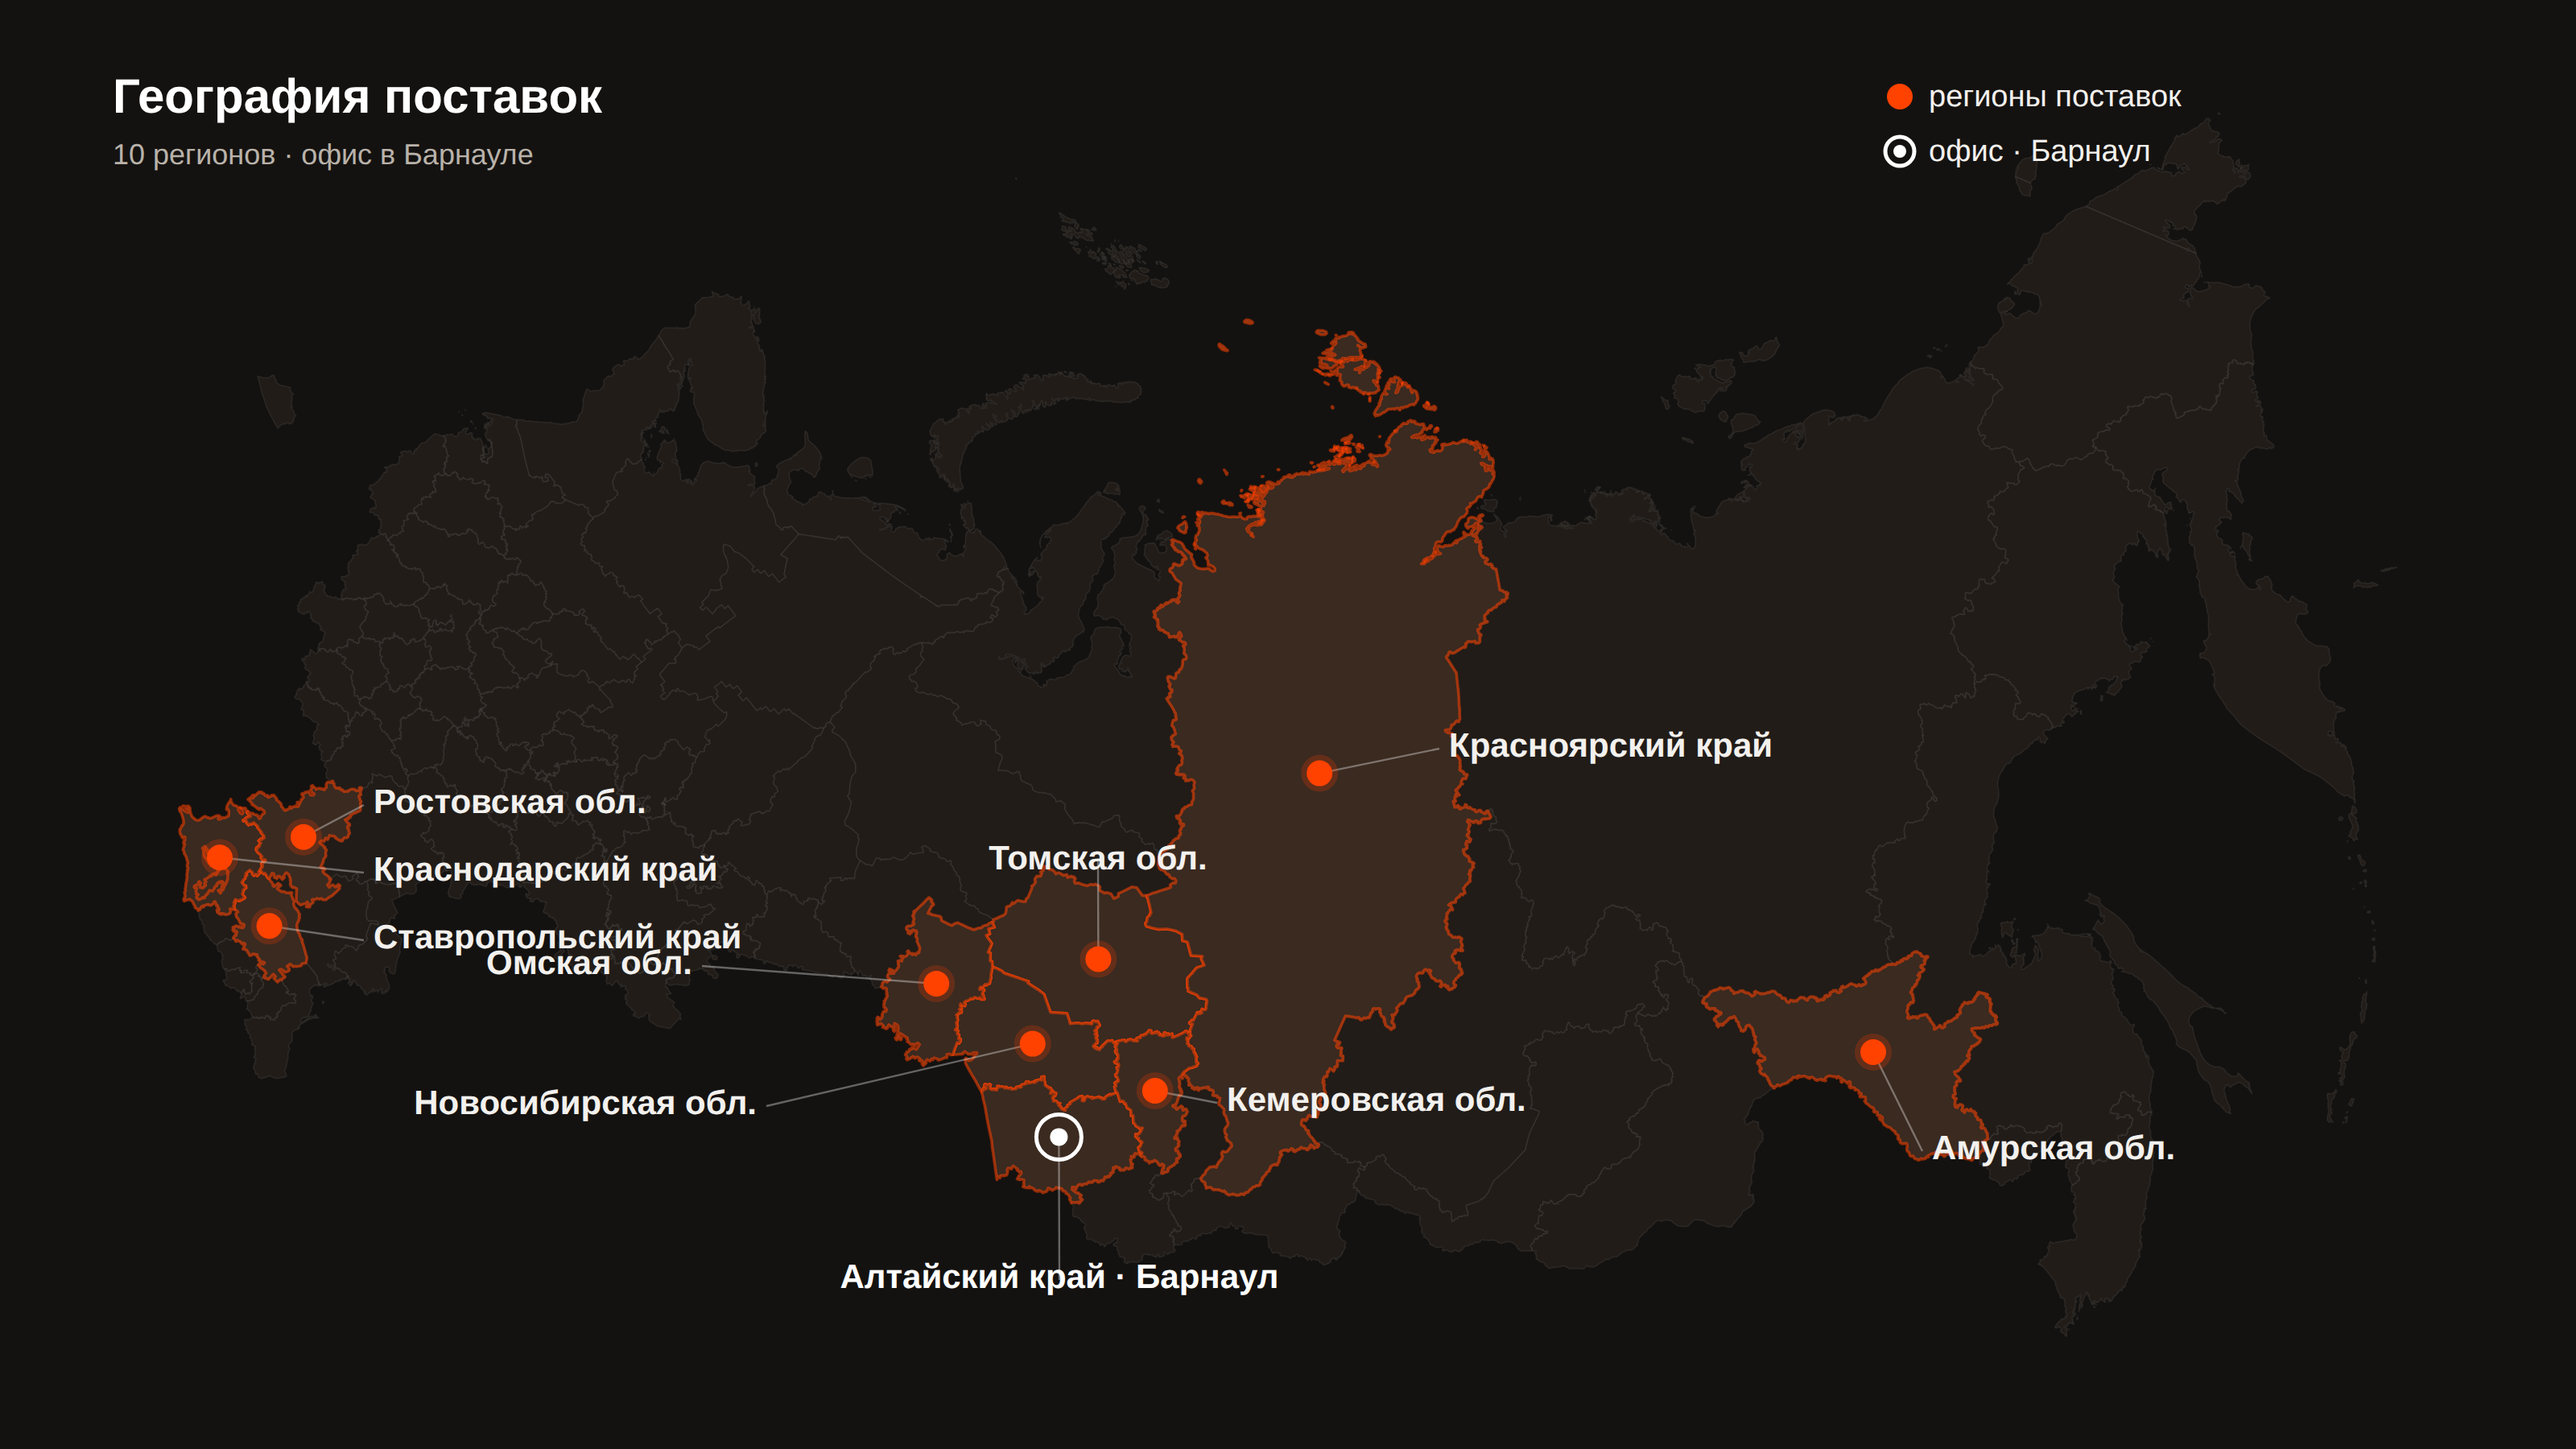
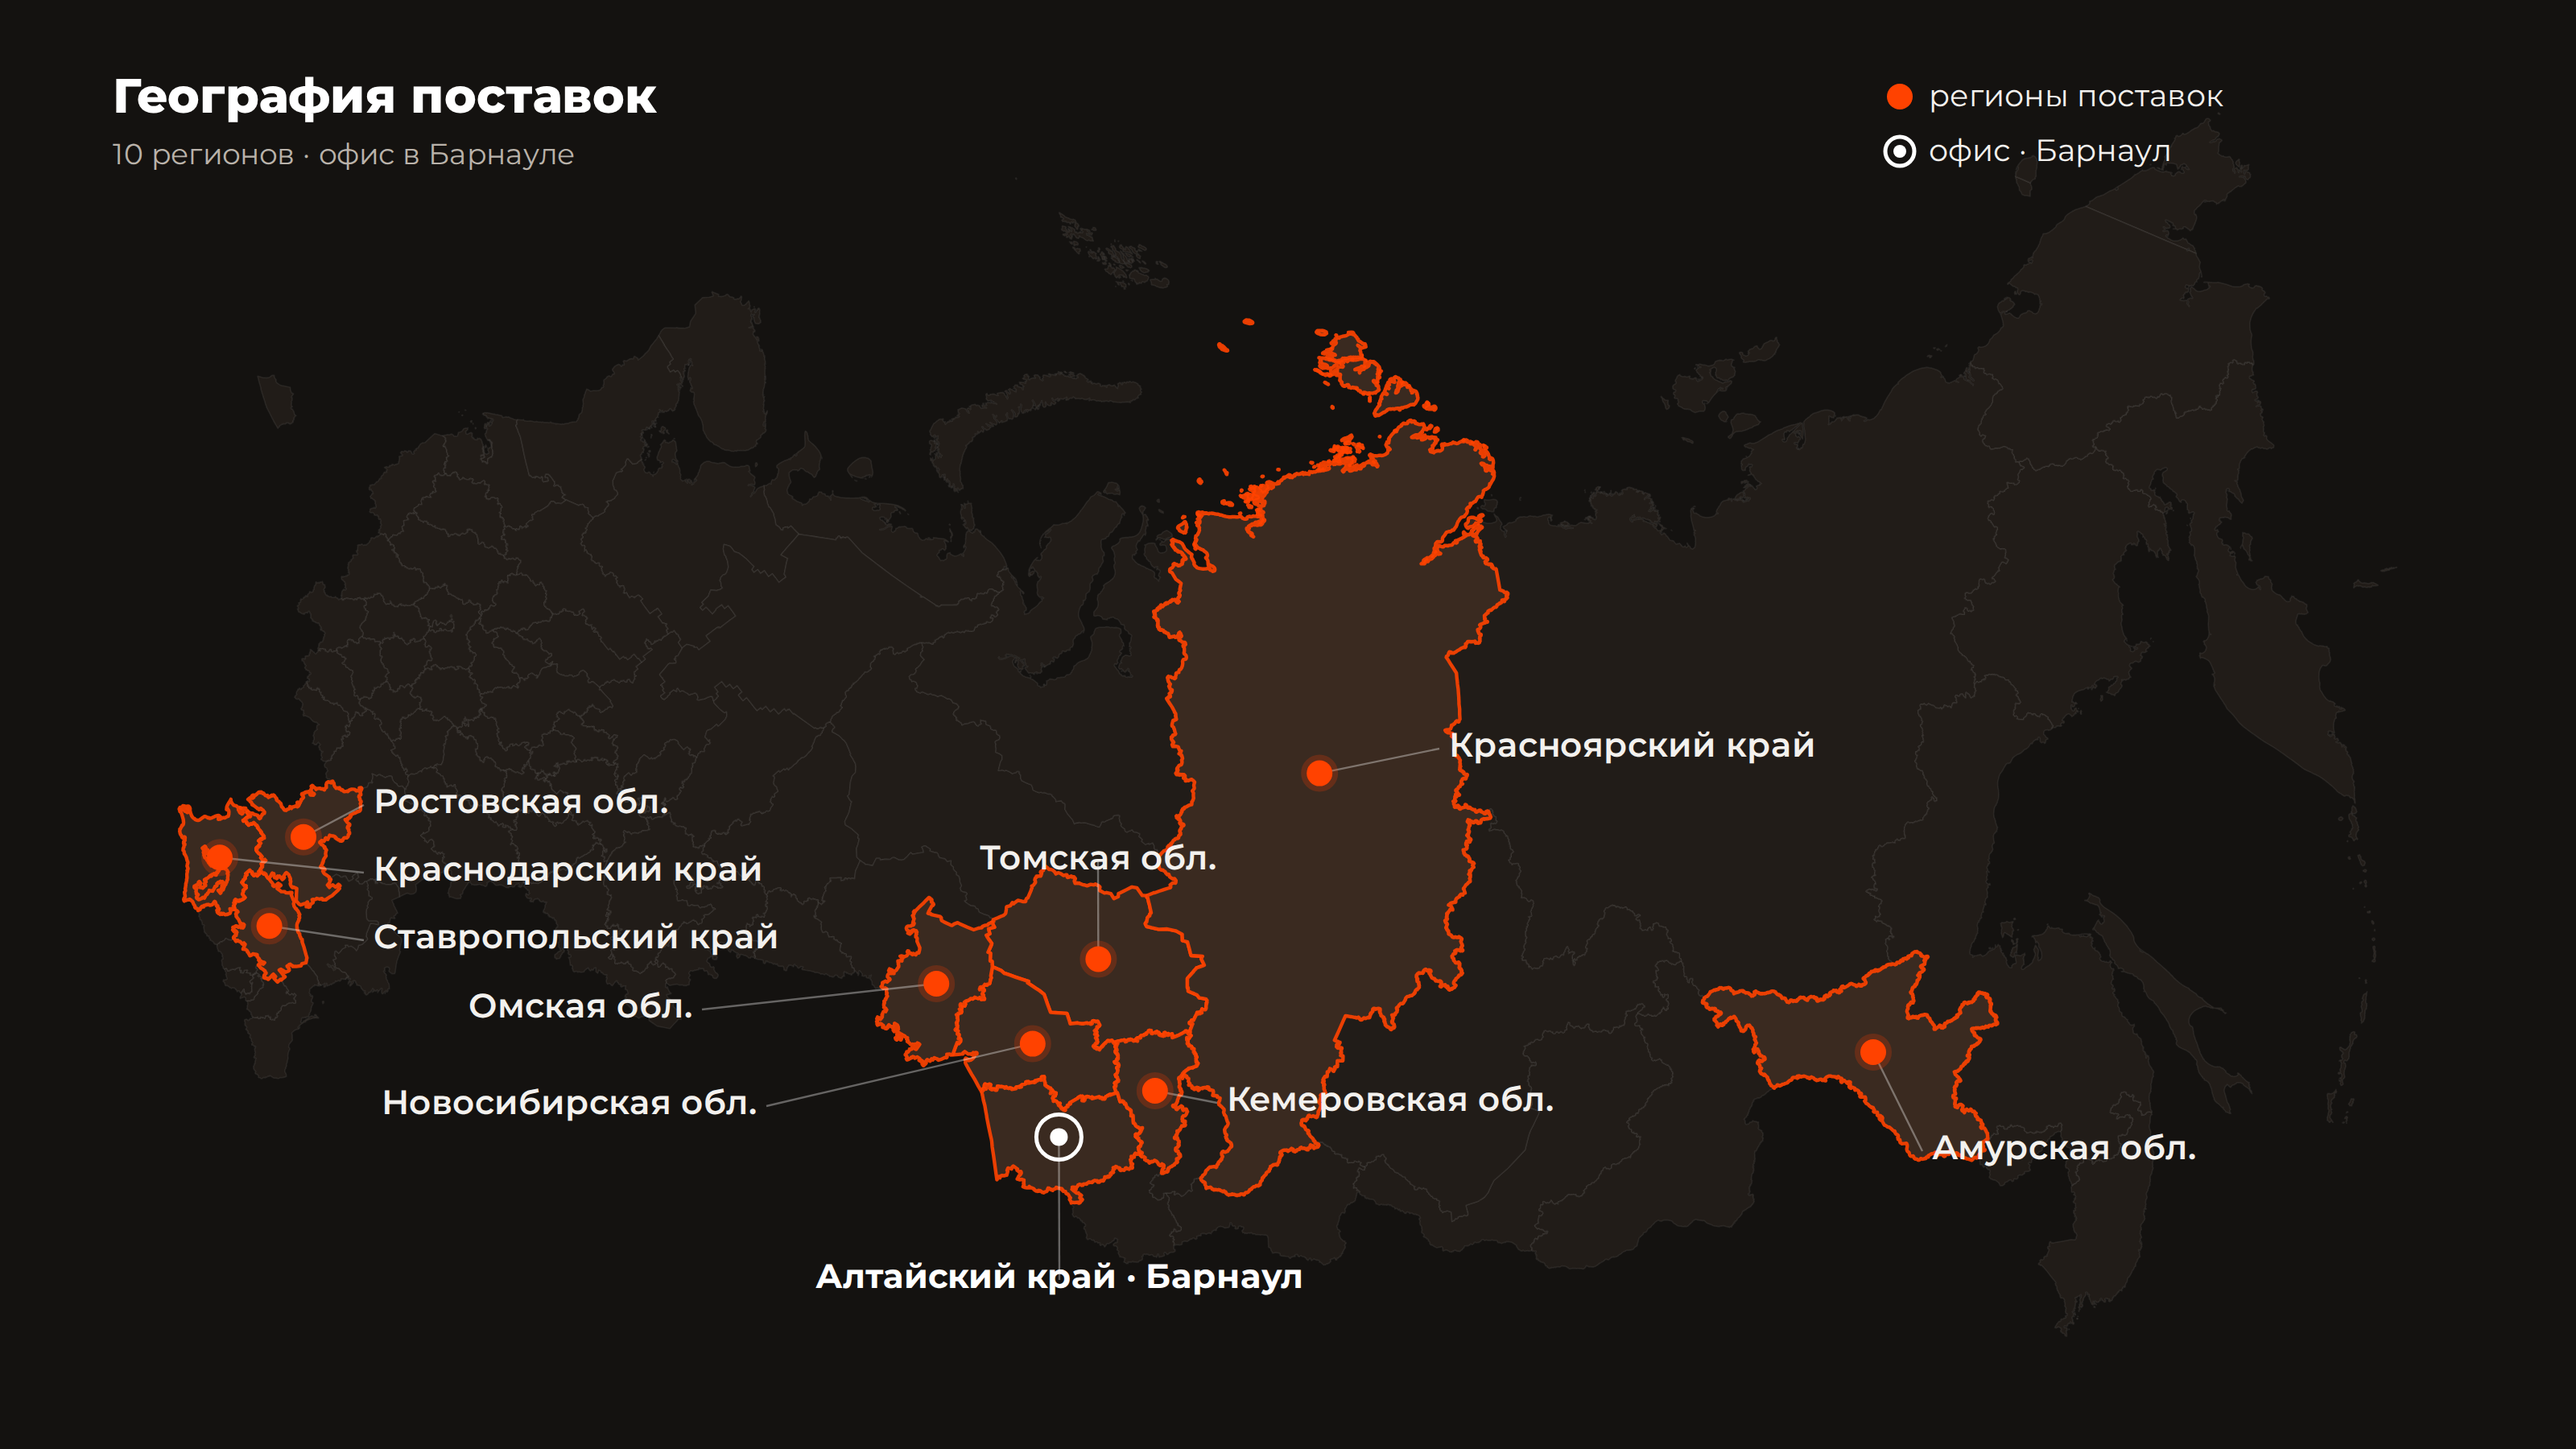
geo-map: подписи регионов — Montserrat вместо Arial, версия карты для сайта
Chromium при рендере молча подставлял Arial: подписи на карте выпадали из
шрифта сайта. render_map.cjs теперь встраивает Montserrat и падает, если
он не загрузился. Montserrat шире — «Омская обл.» опущена, чтобы не
наезжать на «Ставропольский край». Контуры регионов ярче, как в макете.

saturn-map-site.png — без заголовка и легенды, на замену geo-map-10-outline.

Claude-Session: https://claude.ai/code/session_017Yu2wUyZks2ZT3AxJsvZAM

diff --git a/design/geo-map/build_map.py b/design/geo-map/build_map.py
@@ -68,7 +68,7 @@ LAB={
  "Ростовская область":   (232,505,"start"),
  "Краснодарский край":   (232,547,"start"),
  "Ставропольский край":  (232,589,"start"),
- "Омская область":       (430,605,"end"),      # влево
+ "Омская область":       (430,632,"end"),      # влево; ниже Ставрополья — Montserrat шире Arial
  "Томская область":      (682,540,"middle"),   # вверх
  "Новосибирская область":(470,692,"end"),      # влево-вниз
  "Кемеровская область":  (762,690,"start"),    # вправо
@@ -78,7 +78,7 @@ LAB={
 }
 
 BG="#141210"; LAND="#211C18"; LANDS="rgba(255,255,255,.07)"
-HIL="#3A2A20"; HILS="rgba(255,66,0,.55)"; ORANGE="#FF4200"; TXT="#F3F1EE"; LEAD="rgba(255,255,255,.35)"
+HIL="#3A2A20"; HILS="rgba(255,66,0,.9)"; ORANGE="#FF4200"; TXT="#F3F1EE"; LEAD="rgba(255,255,255,.35)"
 svg=[f'<svg xmlns="http://www.w3.org/2000/svg" width="{W}" height="{H}" viewBox="0 0 {W} {H}" font-family="Montserrat,Arial,sans-serif">']
 svg.append(f'<rect width="{W}" height="{H}" fill="{BG}"/>')
 # base regions
@@ -88,7 +88,7 @@ for nm,rr,is_t in all_regions:
 # highlighted target regions (contour)
 for nm,rr,is_t in all_regions:
     if not is_t: continue
-    for ring in rr: svg.append(f'<path d="{path(ring)}" fill="{HIL}" stroke="{HILS}" stroke-width="1.8" stroke-linejoin="round"/>')
+    for ring in rr: svg.append(f'<path d="{path(ring)}" fill="{HIL}" stroke="{HILS}" stroke-width="2.2" stroke-linejoin="round"/>')
 # leaders
 for nm in TARGETS:
     px,py=PIN[nm]; lx,ly,anc=LAB[nm]
@@ -105,12 +105,15 @@ for nm in TARGETS:
 for nm in TARGETS:
     lx,ly,anc=LAB[nm]; col="#fff" if nm==OFFICE else TXT; fw="700" if nm==OFFICE else "600"
     svg.append(f'<text x="{lx}" y="{ly}" fill="{col}" font-size="21" font-weight="{fw}" text-anchor="{anc}">{LABEL[nm]}</text>')
-# title + legend
-svg.append(f'<text x="70" y="70" fill="#fff" font-size="30" font-weight="800">География поставок</text>')
-svg.append(f'<text x="70" y="102" fill="#B9B2AA" font-size="18">10 регионов · офис в Барнауле</text>')
-lgx,lgy=1180,60
-svg.append(f'<circle cx="{lgx}" cy="{lgy}" r="8" fill="{ORANGE}"/><text x="{lgx+18}" y="{lgy+6}" fill="{TXT}" font-size="19">регионы поставок</text>')
-svg.append(f'<circle cx="{lgx}" cy="{lgy+34}" r="9" fill="none" stroke="#fff" stroke-width="2.5"/><circle cx="{lgx}" cy="{lgy+34}" r="4" fill="#fff"/><text x="{lgx+18}" y="{lgy+40}" fill="{TXT}" font-size="19">офис · Барнаул</text>')
+# title + legend — только для самостоятельной картинки; на сайте они в вёрстке
+import os
+SITE = os.environ.get('MAP_SITE') == '1'
+if not SITE:
+  svg.append(f'<text x="70" y="70" fill="#fff" font-size="30" font-weight="800">География поставок</text>')
+  svg.append(f'<text x="70" y="102" fill="#B9B2AA" font-size="18">10 регионов · офис в Барнауле</text>')
+  lgx,lgy=1180,60
+  svg.append(f'<circle cx="{lgx}" cy="{lgy}" r="8" fill="{ORANGE}"/><text x="{lgx+18}" y="{lgy+6}" fill="{TXT}" font-size="19">регионы поставок</text>')
+  svg.append(f'<circle cx="{lgx}" cy="{lgy+34}" r="9" fill="none" stroke="#fff" stroke-width="2.5"/><circle cx="{lgx}" cy="{lgy+34}" r="4" fill="#fff"/><text x="{lgx+18}" y="{lgy+40}" fill="{TXT}" font-size="19">офис · Барнаул</text>')
 svg.append('</svg>')
-open("map_ref.svg","w").write("\n".join(svg))
+open("map_site.svg" if SITE else "map_ref.svg","w").write("\n".join(svg))
 print("wrote map_ref.svg")

diff --git a/design/geo-map/README.md b/design/geo-map/README.md
@@ -5,7 +5,8 @@
 обведён контуром, пины стоят по **центрам самих регионов** (центроид полигона),
 поэтому каждый пин попадает внутрь своего контура.
 
-- `saturn-map-geo.png` — готовый рендер (для вставки/трассировки в Claude Design).
+- `saturn-map-site.png` — **версия для сайта**: без заголовка и легенды (они в вёрстке), пропорция 1,965 — как у `geo-map-10-outline.png` в макете, на замену ему.
+- `saturn-map-geo.png` — самостоятельная картинка с заголовком и легендой.
 - `map_ref.svg` — векторный источник (контуры регионов + подсветка 10 регионов +
   пины + выноски + легенда).
 - `build_map.py` — генератор SVG. Проекция Albers conic (`lat1=50, lat2=65,
@@ -18,8 +19,18 @@
 ## Пересборка
 ```
 cd design/geo-map
-python3 build_map.py                   # → map_ref.svg (печатает пины в px/%)
-/opt/node22/bin/node render_map.cjs    # → saturn-map-geo.png
+python3 build_map.py                              # → map_ref.svg
+MAP_SITE=1 python3 build_map.py                   # → map_site.svg (без заголовка и легенды)
+/opt/node22/bin/node render_map.cjs map_ref.svg saturn-map-geo.png
+/opt/node22/bin/node render_map.cjs map_site.svg saturn-map-site.png
+```
+🔴 `render_map.cjs` встраивает Montserrat из `catalogs/_fonts` и падает, если
+шрифт не загрузился. Раньше Chromium молча подставлял Arial — подписи регионов
+на сайте были набраны не фирменным шрифтом.
+
+После рендера `saturn-map-site.png` обрезается по контенту до пропорции 1,965
+(скрипт обрезки — в истории коммита 29.09).
+```
 ```
 
 ## Пины (центроиды регионов), % от рамки карты 1600×900
